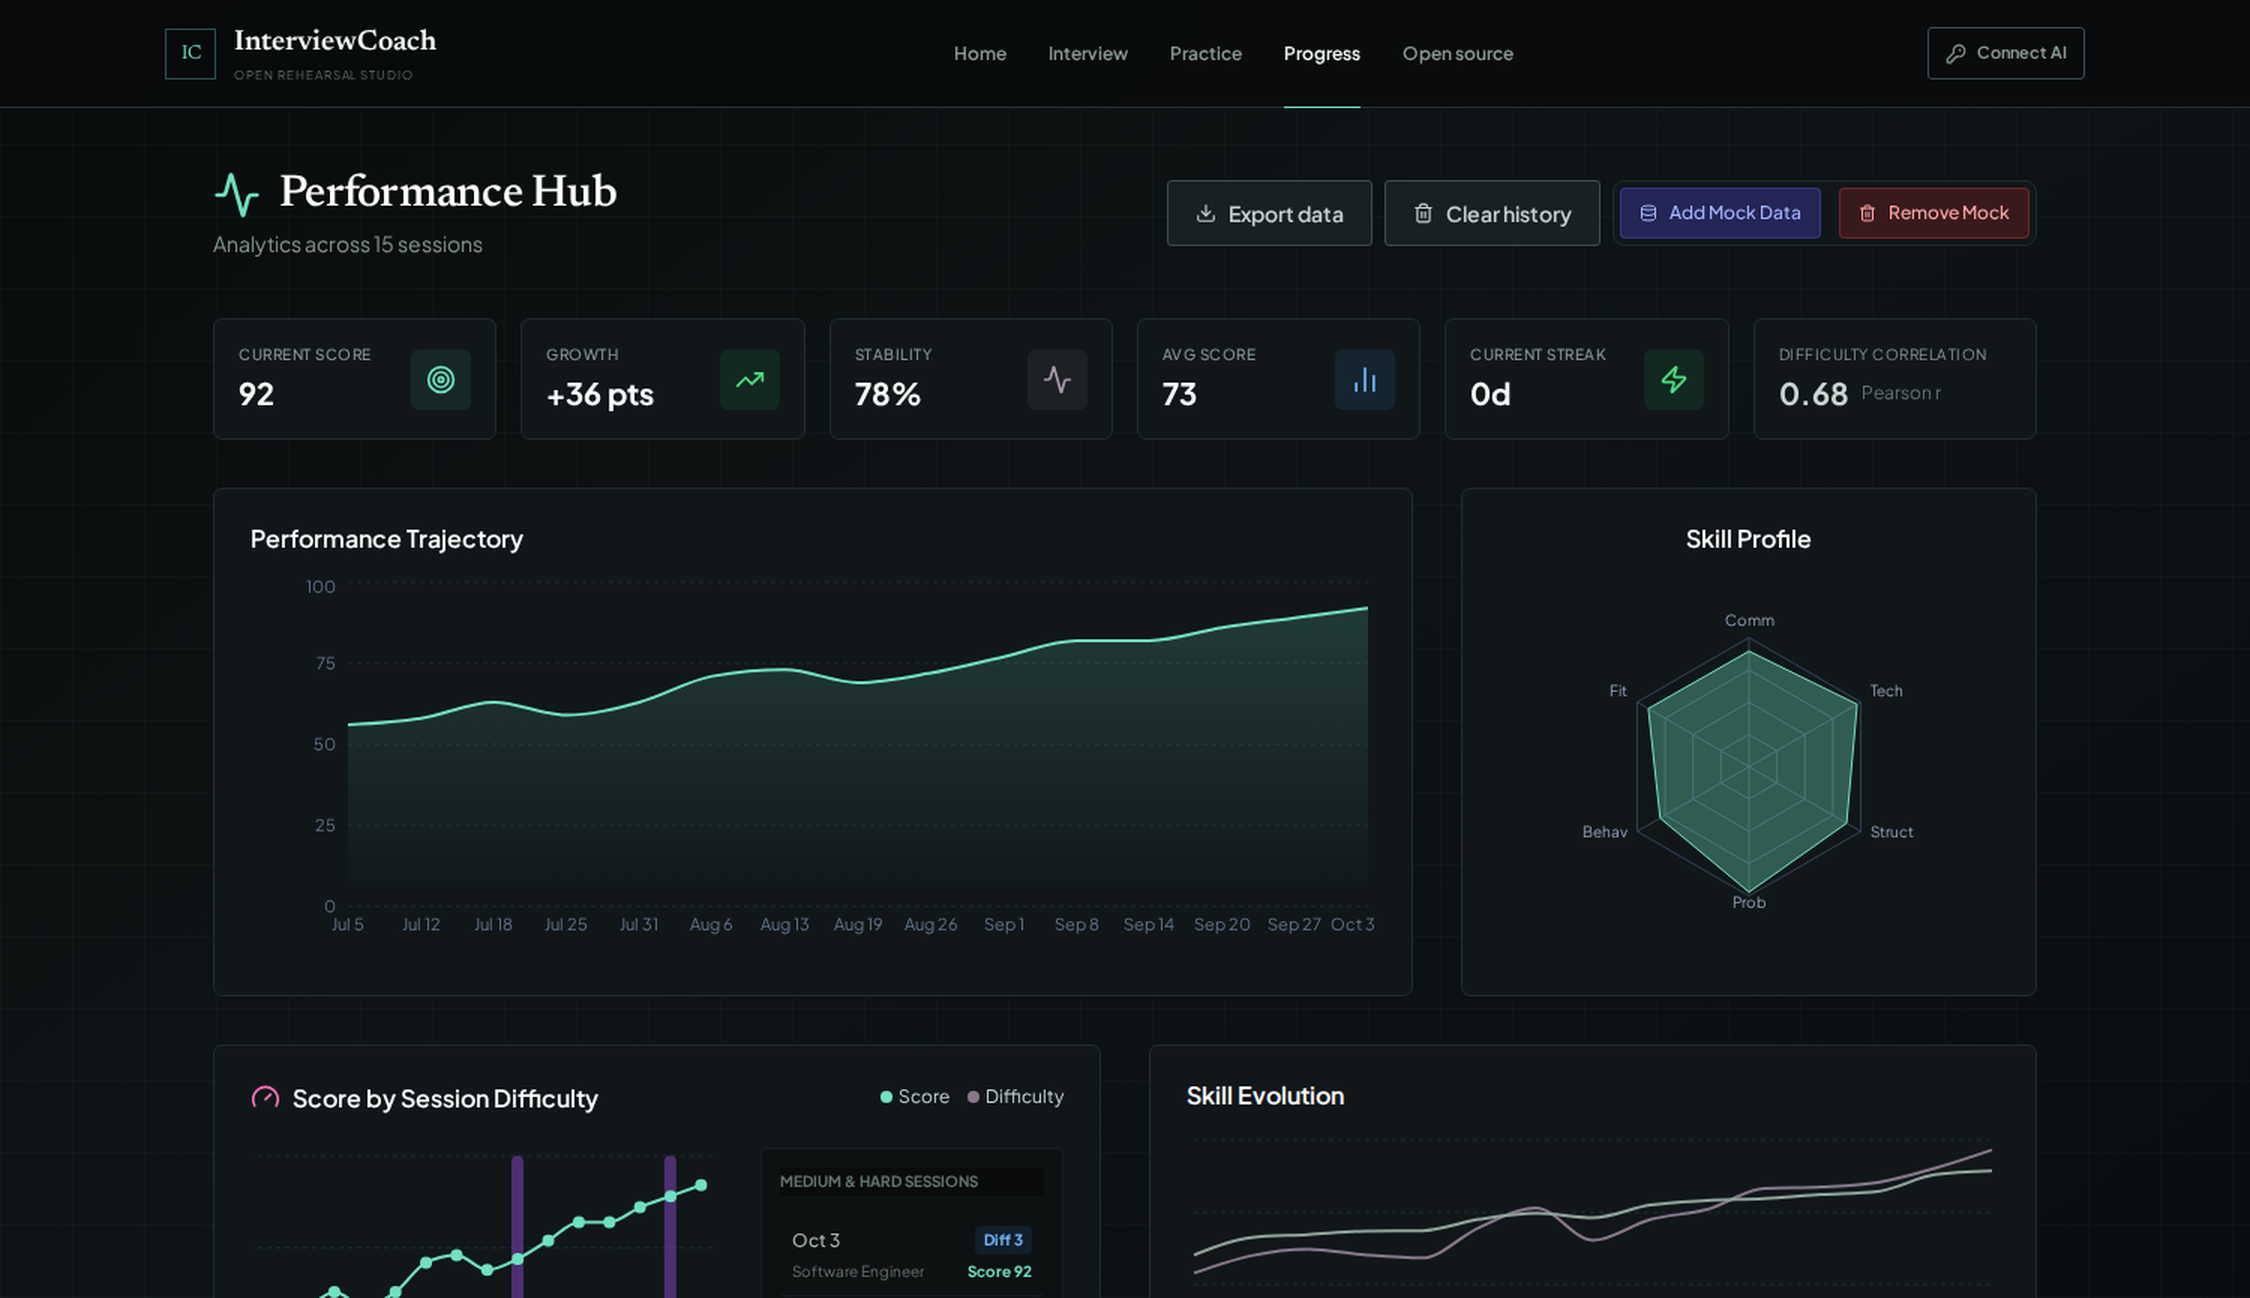
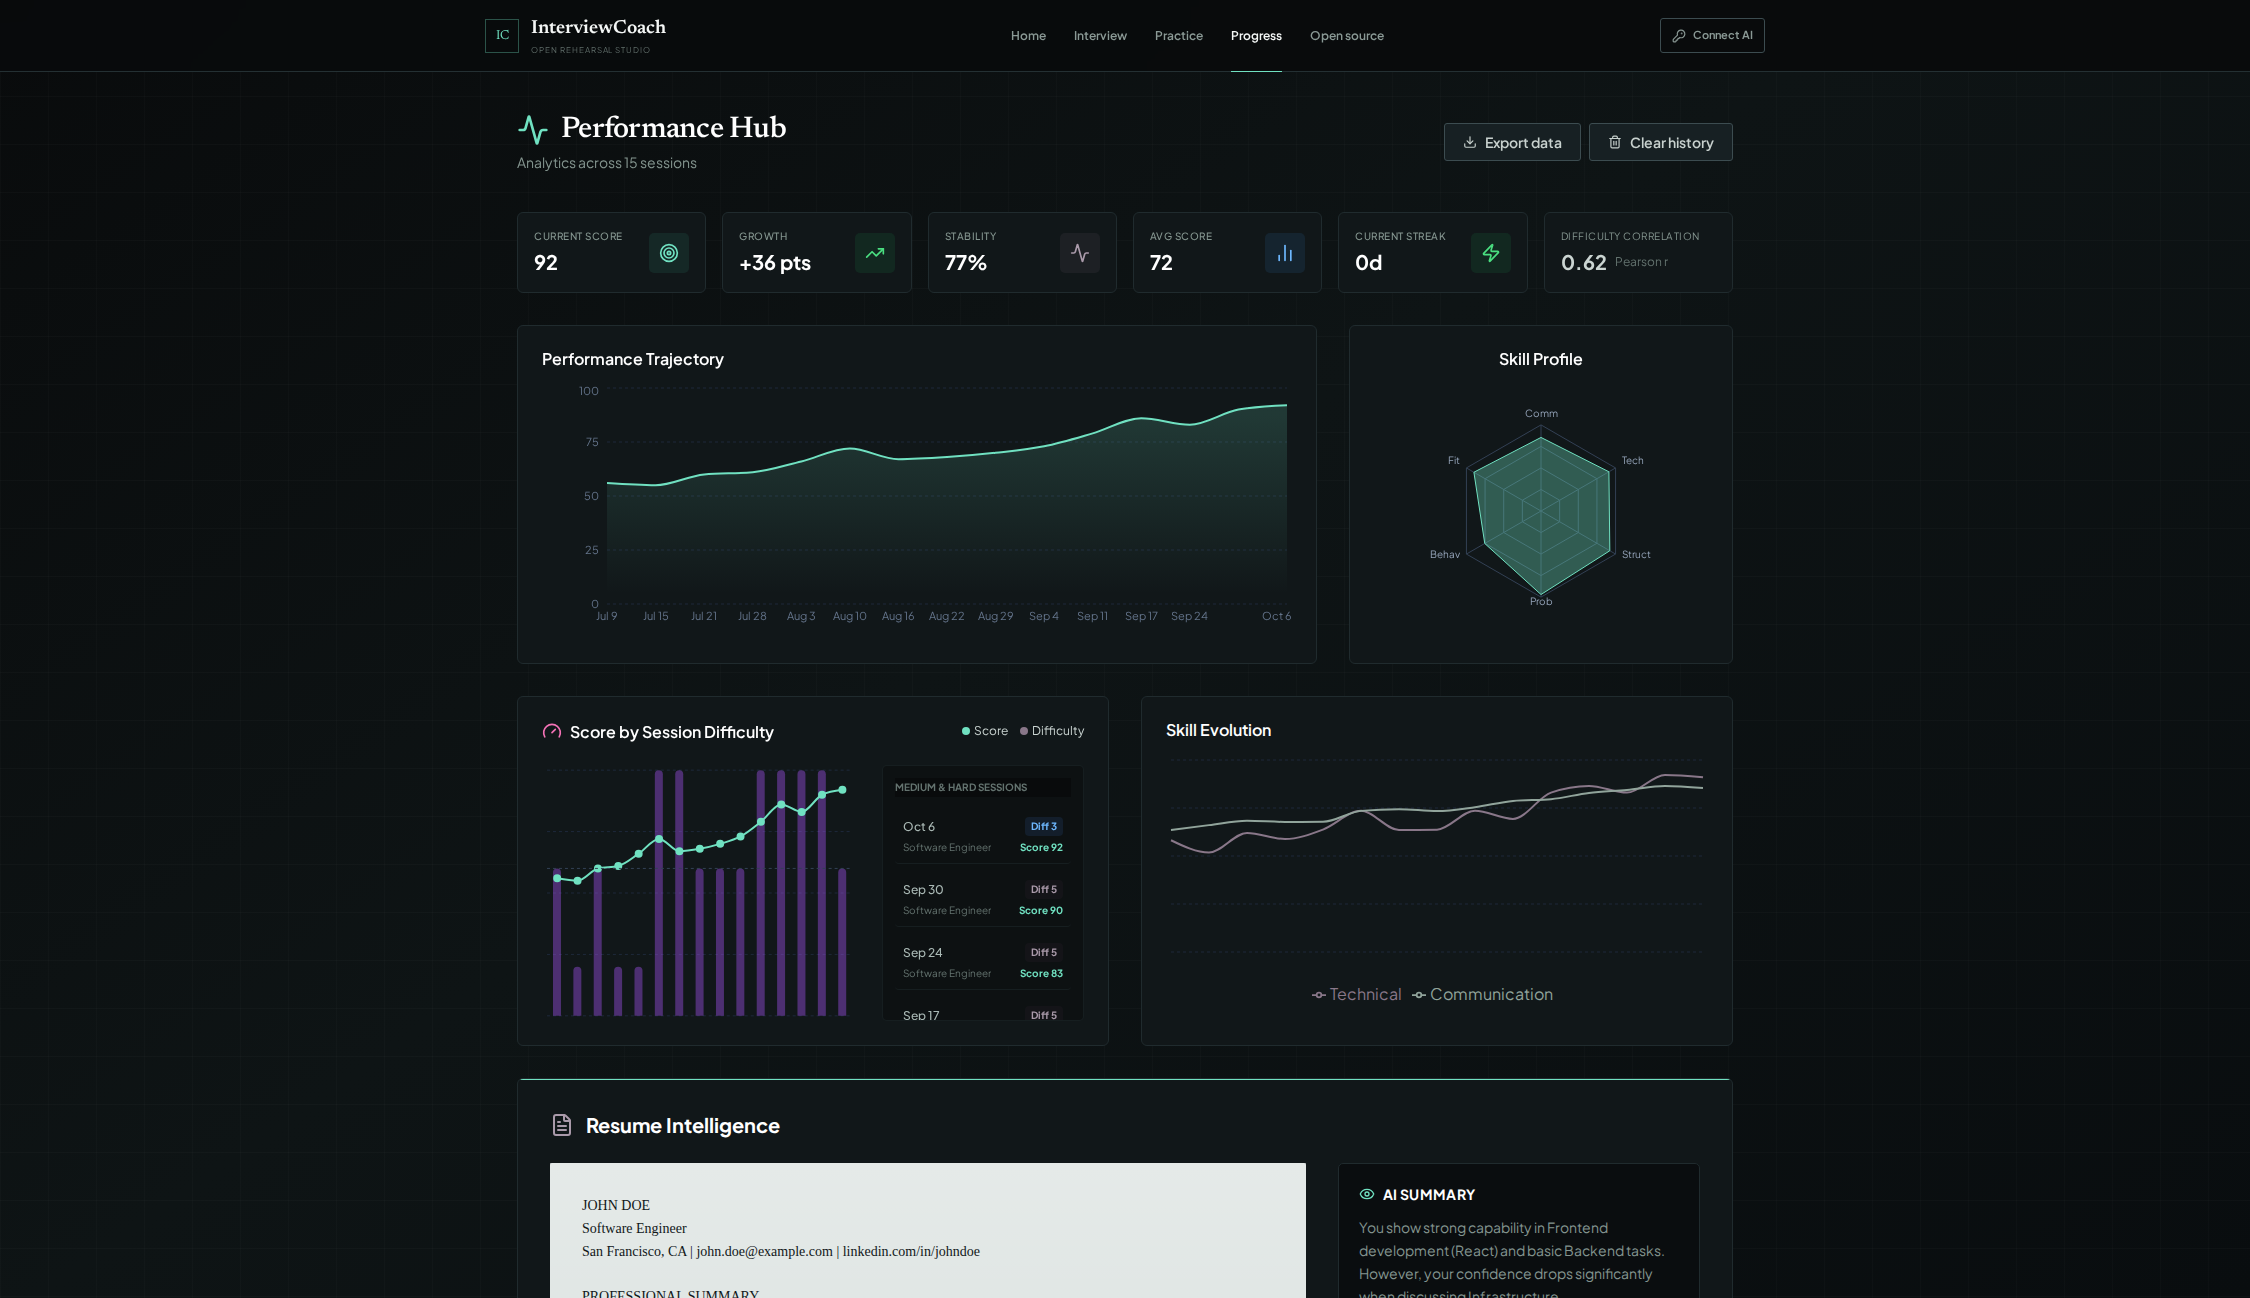
Remove the mock data feature from the dashboard
The Add Mock Data and Remove Mock buttons are gone, along with the
mock history generator, the storage helpers that only served them,
and the isMock flag on history items. The dashboard screenshot is
refreshed to match.

diff --git a/components/Dashboard.tsx b/components/Dashboard.tsx
@@ -1,8 +1,7 @@
 
 import React, { useEffect, useState, useMemo } from 'react';
 import { HistoryItem, InterviewSettings } from '../types';
-import { getInterviewHistory, getInterviewHistoryAsync, addHistoryItems, removeMockItems, clearHistory } from '../utils/storage';
-import { generateMockHistory } from '../utils/mockData';
+import { getInterviewHistory, getInterviewHistoryAsync, clearHistory } from '../utils/storage';
 import { getStreakStats } from '../utils/feedbackEnhancements';
 import { 
     AreaChart, Area, XAxis, YAxis, CartesianGrid, Tooltip, ResponsiveContainer, 
@@ -12,7 +11,7 @@ import {
 import { 
     Activity, TrendingUp, CheckCircle2, AlertTriangle, 
     Zap, FileText, PlayCircle, BookOpen, Info, Minus, TrendingDown, 
-    Target, Database, Terminal, BarChart2, Trash2, Eye, Gauge, ArrowUpRight, Loader2, Download
+    Target, Terminal, BarChart2, Trash2, Eye, Gauge, ArrowUpRight, Download
 } from 'lucide-react';
 
 interface DashboardProps {
@@ -22,10 +21,7 @@ interface DashboardProps {
 const Dashboard: React.FC<DashboardProps> = ({ onStartSession }) => {
   const [history, setHistory] = useState<HistoryItem[]>([]);
   const [refreshTrigger, setRefreshTrigger] = useState(0);
-  const [loading, setLoading] = useState(false);
     const streakStats = getStreakStats();
-
-    const isDevMode = localStorage.getItem('interview_coach_dev_mode') === 'true';
 
   useEffect(() => {
     // 1. Instant load from local cache
@@ -39,21 +35,6 @@ const Dashboard: React.FC<DashboardProps> = ({ onStartSession }) => {
   }, [refreshTrigger]);
 
   // --- HANDLERS ---
-  
-  const handleAddMockData = async () => {
-    setLoading(true);
-    const mockItems = generateMockHistory();
-    const updated = await addHistoryItems(mockItems);
-    setHistory(updated);
-    setLoading(false);
-  };
-
-  const handleRemoveMockData = async () => {
-    setLoading(true);
-    const updated = await removeMockItems();
-    setHistory(updated);
-    setLoading(false);
-  };
 
     const handleExportHistory = () => {
         const file = new Blob([JSON.stringify(history, null, 2)], { type: 'application/json' });
@@ -205,26 +186,6 @@ const Dashboard: React.FC<DashboardProps> = ({ onStartSession }) => {
                             </button>
                         </>
                     )}
-                {isDevMode && (
-                    <div className="flex space-x-3 bg-slate-900/50 p-1 rounded-lg border border-slate-800">
-              <button 
-                  onClick={handleAddMockData} 
-                  disabled={loading}
-                  className="px-3 py-2 bg-indigo-600/20 hover:bg-indigo-600/30 text-indigo-300 border border-indigo-500/30 rounded text-xs font-medium flex items-center transition-colors disabled:opacity-50 disabled:pointer-events-none"
-              >
-                  {loading ? <Loader2 className="w-3 h-3 mr-2 animate-spin" /> : <Database className="w-3 h-3 mr-2" />} 
-                  {loading ? 'Loading...' : 'Add Mock Data'}
-              </button>
-              <button 
-                  onClick={handleRemoveMockData} 
-                  disabled={loading}
-                  className="px-3 py-2 bg-red-600/20 hover:bg-red-600/30 text-red-300 border border-red-500/30 rounded text-xs font-medium flex items-center transition-colors disabled:opacity-50 disabled:pointer-events-none"
-              >
-                  {loading ? <Loader2 className="w-3 h-3 mr-2 animate-spin" /> : <Trash2 className="w-3 h-3 mr-2" />} 
-                  {loading ? 'Clearing...' : 'Remove Mock'}
-              </button>
-          </div>
-        )}
                 </div>
       </div>
 
@@ -237,7 +198,6 @@ const Dashboard: React.FC<DashboardProps> = ({ onStartSession }) => {
               <h2 className="text-3xl font-bold text-white mb-3">No Session Data Yet</h2>
               <p className="text-slate-400 max-w-md mx-auto mb-8">
                   Complete an interview session to visualize your performance trends.
-                  {isDevMode && " You can also use the buttons above to add mock data for testing."}
               </p>
           </div>
       )}

diff --git a/utils/storage.ts b/utils/storage.ts
@@ -50,8 +50,7 @@ export const saveInterviewResult = (report: ComprehensiveAnalysisReport) => {
       role: role,
       score: compositeScore, 
       duration: duration,
-      feedback: report,
-      isMock: false 
+      feedback: report
     };
 
     // Save to local cache
@@ -62,40 +61,6 @@ export const saveInterviewResult = (report: ComprehensiveAnalysisReport) => {
     console.error("Failed to save interview result", error);
     return null;
   }
-};
-
-// Add history items (including local development/demo items).
-export const addHistoryItems = async (items: HistoryItem[]): Promise<HistoryItem[]> => {
-    try {
-        const history = getInterviewHistory();
-        const realHistory = history.filter(item => item.isMock !== true);
-        const updatedHistory = [...items, ...realHistory];
-        
-        // Save locally
-        if (!writeHistory(updatedHistory)) return history;
-
-        return updatedHistory;
-    } catch (error) {
-        console.error("Failed to add history items", error);
-        return [];
-    }
-};
-
-// Remove mock items from local history.
-export const removeMockItems = async (): Promise<HistoryItem[]> => {
-    try {
-        const history = getInterviewHistory();
-        const mockItems = history.filter(item => item.isMock === true);
-        const realHistory = history.filter(item => item.isMock !== true);
-        
-        // Update local cache
-        if (!writeHistory(realHistory)) return history;
-
-        return realHistory;
-    } catch (error) {
-        console.error("Failed to remove mock items", error);
-        return [];
-    }
 };
 
 // Clear local history.

diff --git a/types.ts b/types.ts
@@ -160,7 +160,6 @@ export interface HistoryItem {
   score: number;
   duration: number;
   feedback: ComprehensiveAnalysisReport;
-  isMock?: boolean; 
 }
 
 // --- CODING WORKSPACE TYPES ---
